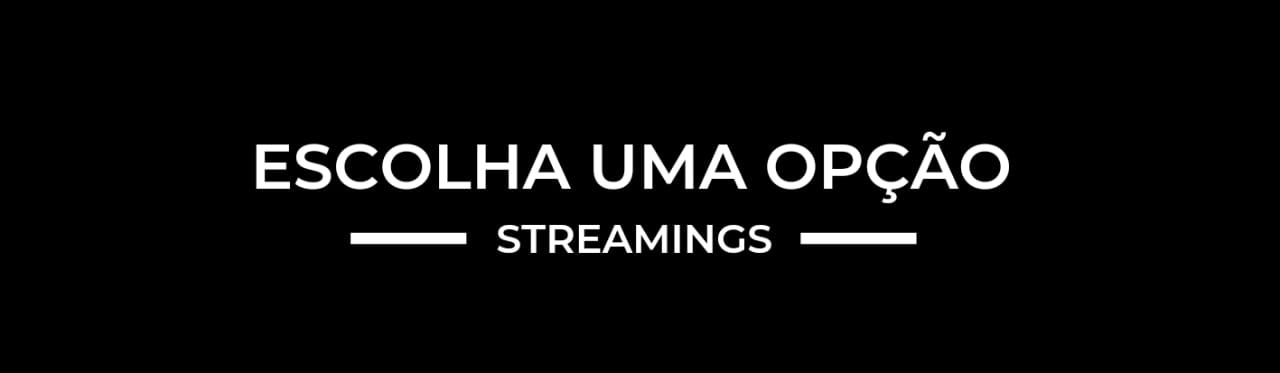
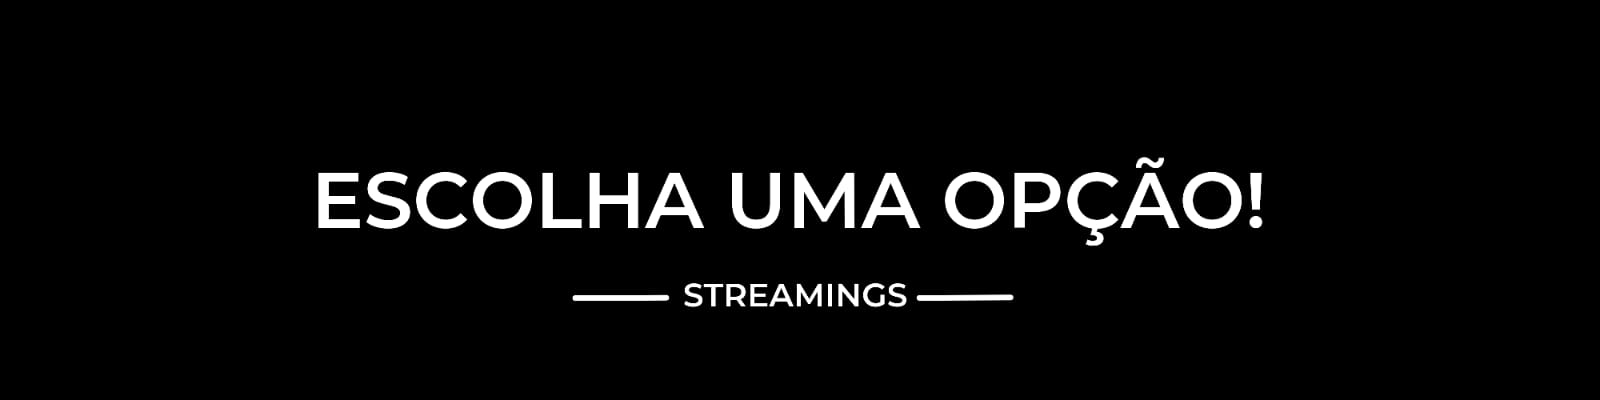
Add files via upload

Changed region(s): [[0.1875, 0.3539, 0.8125, 0.6783], [0.3438, 0.7078, 0.6562, 0.7668]]

diff --git a/index.html b/index.html
@@ -12,7 +12,9 @@
 <body>
 
     <div class="profile-picture"> 
-        <img src="assets/LOGO 1.jpeg" alt="FOTO DE PERFIL">
+        <img src="assets/LOGO 1.jpeg" alt="FOTO DE PERFIL" width="900px">
+        
+        
     </div>
 
     
@@ -20,7 +22,7 @@
    
 
     <div class="profile"> 
-        <img src="assets/TEXTO 1.jpeg" alt="FOTO DE PERFIL">
+        <img src="assets/TEXTO 1.JPEG" alt="FOTO DE PERFIL" width="475px">
     </div>
 
     

diff --git a/style.css b/style.css
@@ -38,6 +38,11 @@ body{
 
 .profile {
     margin: -3vh;
+    width: 0vh;
+    display: flex;
+    justify-content: center;
+    align-items: center;
+    height: 100%;
 }
 
 .description {
